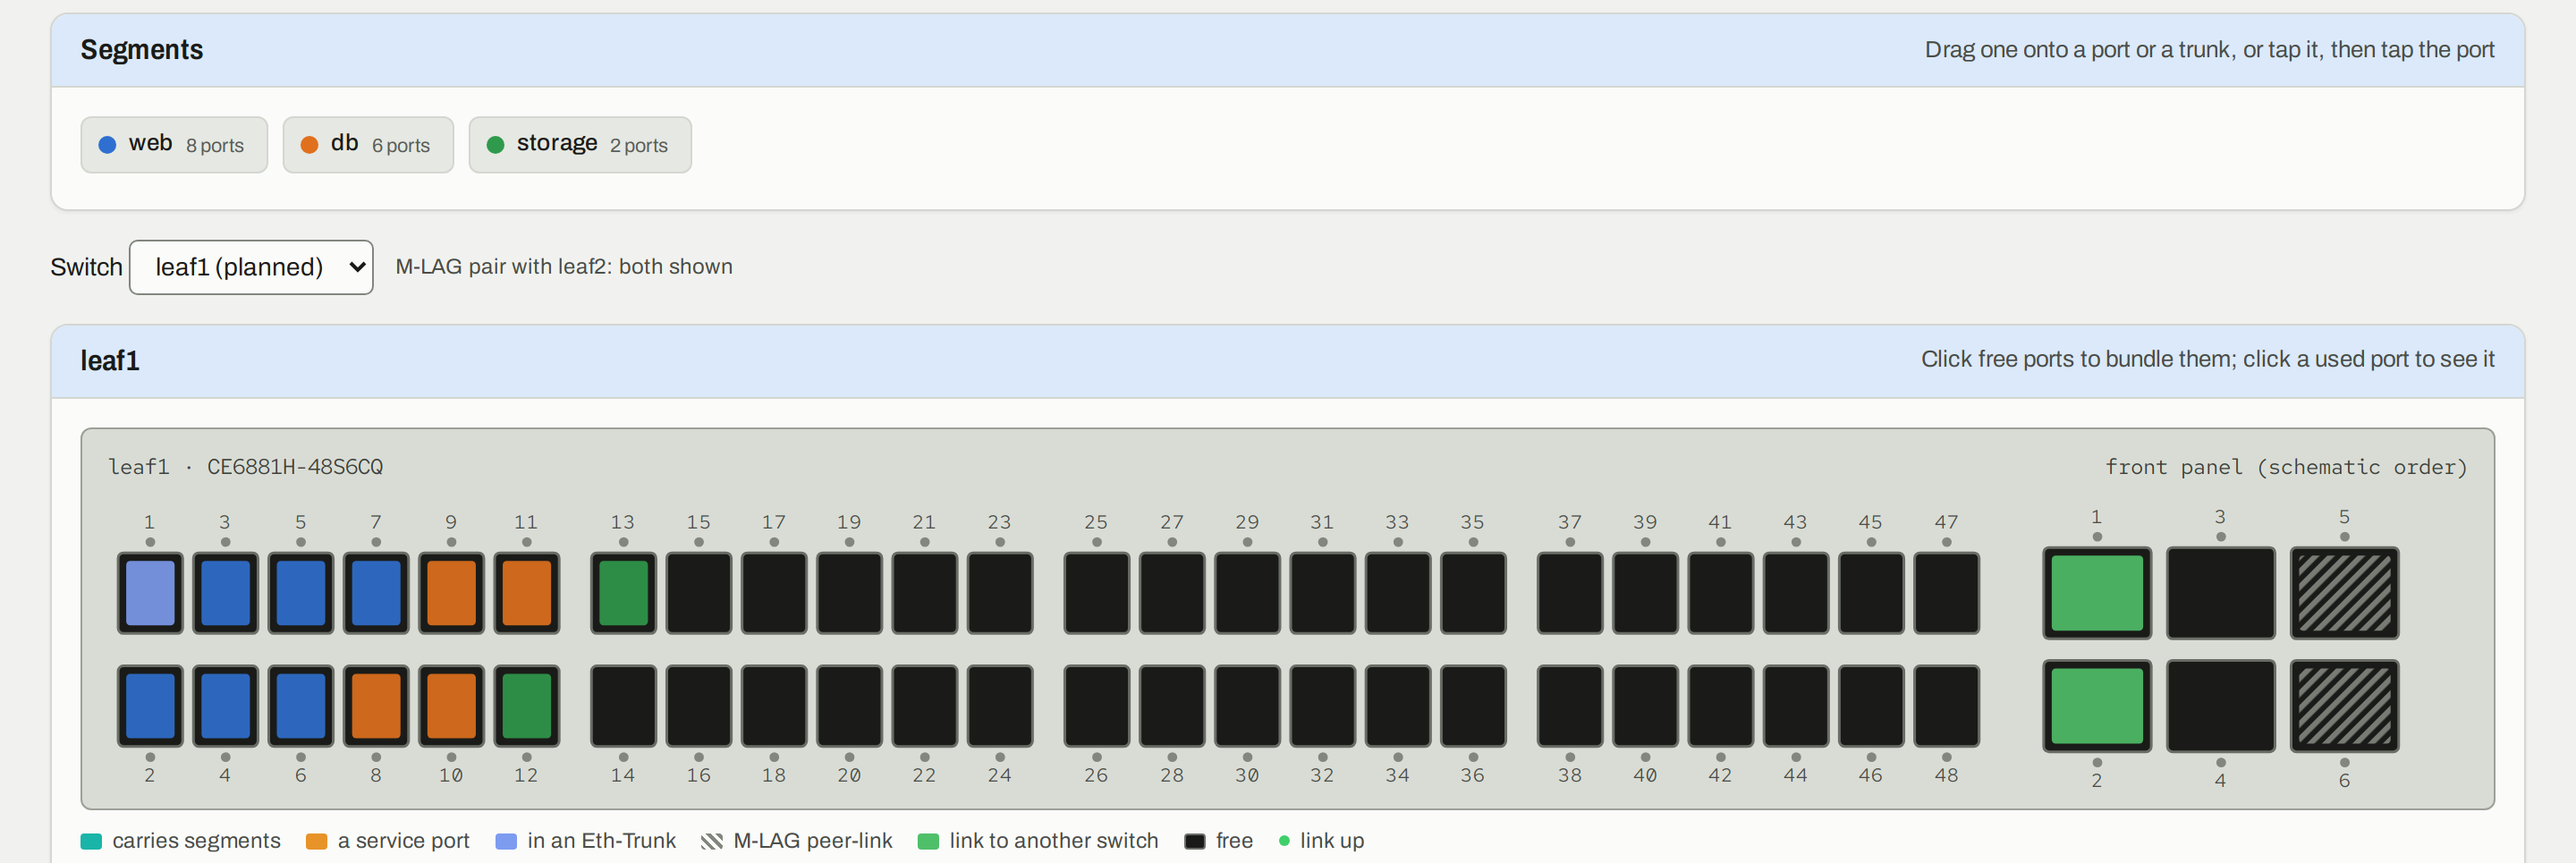
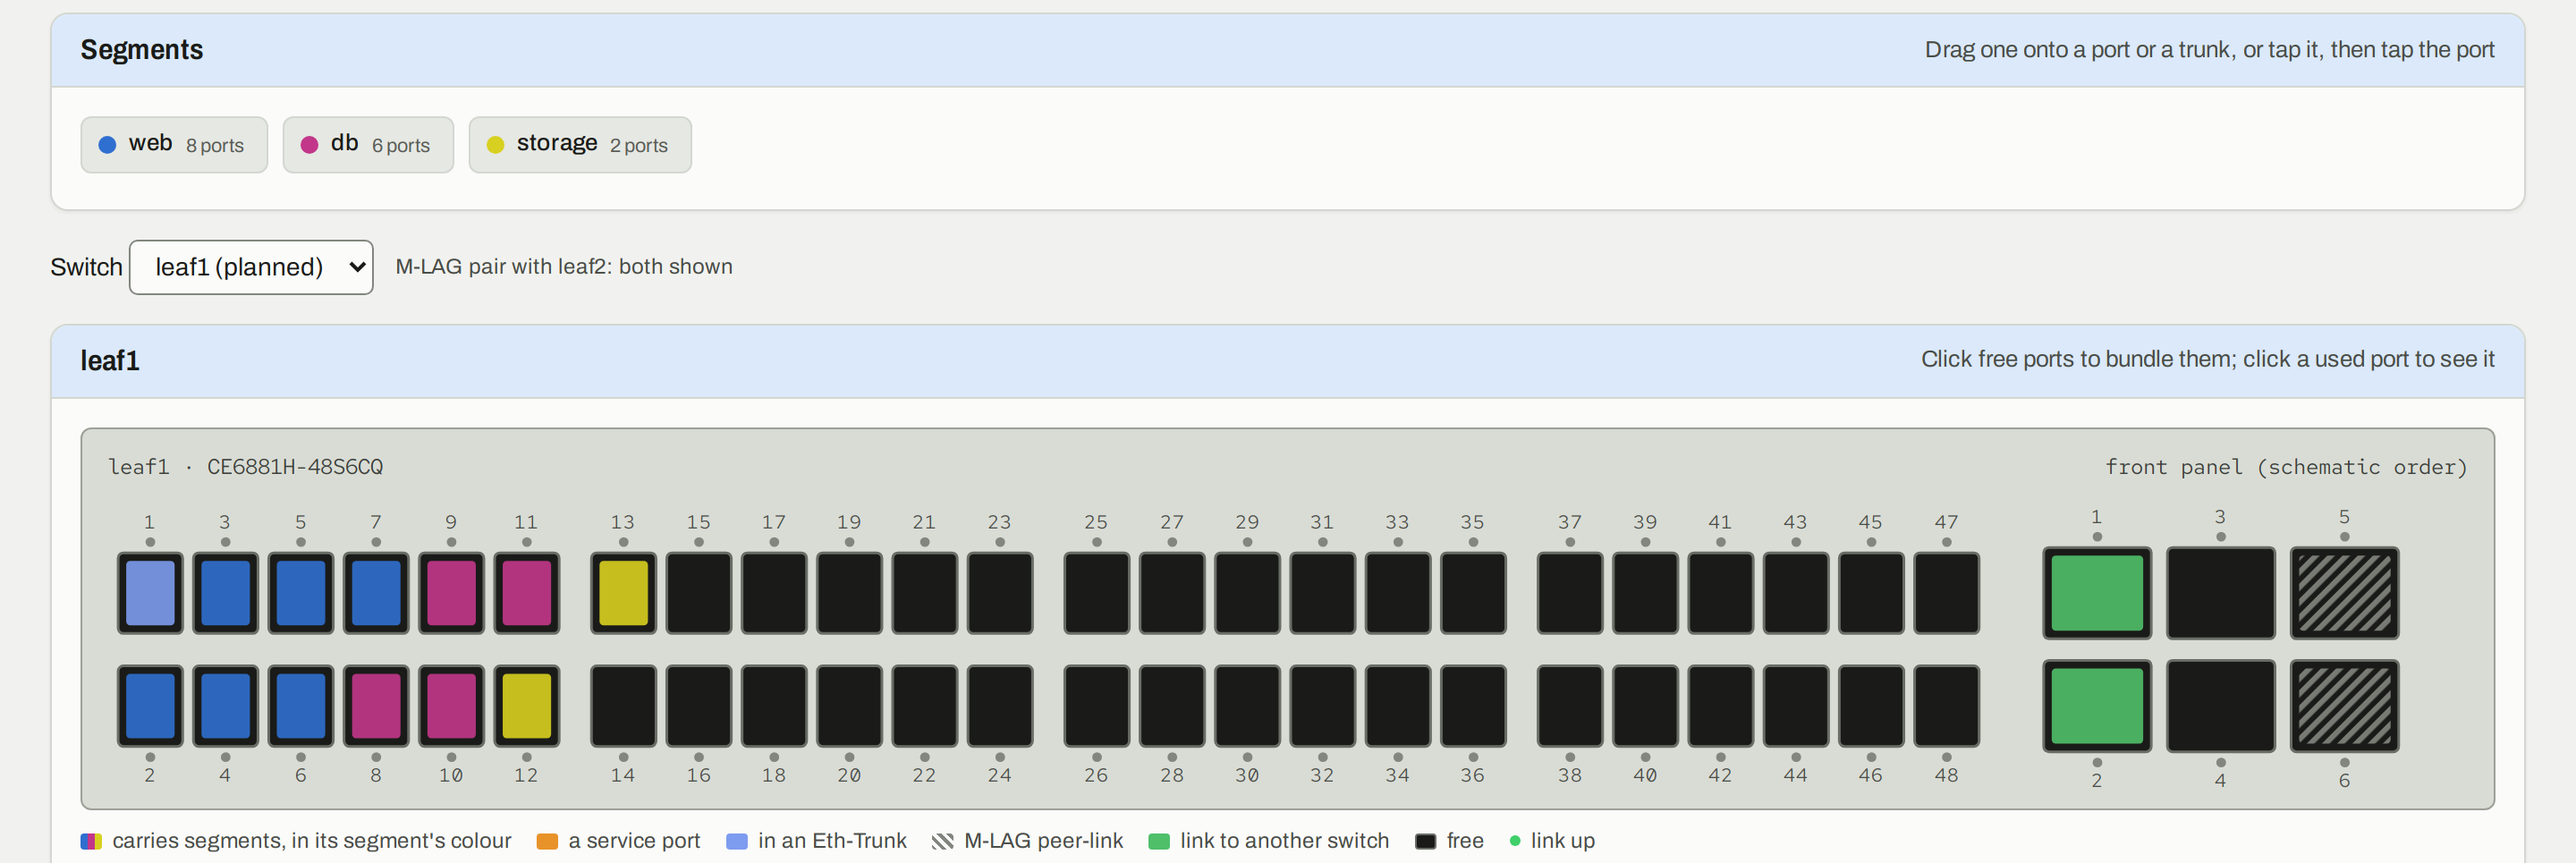
Segment colours that the front panel's legend does not use
Segments took orange and green, the legend's colours for a service port and a fabric link,
so a db port read as a service port. The legend now also says segment ports wear their
segment's colour where the panel is painted by segment.

diff --git a/gui/src/styles.css b/gui/src/styles.css
@@ -33,7 +33,7 @@
   --bad-soft: #f5dcd7;
   --warn: #924600;
   --warn-soft: #f5e4cc;
-  --s1: #2f6fd0; --s2: #e0701d; --s3: #2f9a4c; --s4: #8a5a2b; --s5: #d0352b; --s6: #7b4fc9;   /* segments: cable jacket colours */
+  --s1: #2f6fd0; --s2: #c2378a; --s3: #d8d020; --s4: #7a4bc4; --s5: #d0352b; --s6: #ff6f91;   /* segments: cable jacket colours, none of the --p-* hues the front panel's legend uses */
   --p-segment: #19b5a8;       /* the drawn front panel: what a port carries, on a black cage */
   --p-service: #e8932a;
   --p-trunk: #7d9cf0;
@@ -93,7 +93,7 @@
     --bad-soft: #3a1814;
     --warn: #f0a54a;
     --warn-soft: #33250f;
-    --s1: #5b8fe6; --s2: #ef8a3c; --s3: #4fb86a; --s4: #b07d4a; --s5: #ec6155; --s6: #9c7ae0;
+    --s1: #5b8fe6; --s2: #e0569f; --s3: #e6dc4a; --s4: #9c7ae0; --s5: #ec6155; --s6: #ff8fab;
     --chassis: #24251f;
     --chassis-edge: #4a4b43;
     --cage: #0a0a09;
@@ -136,7 +136,7 @@
   --bad-soft: #3a1814;
   --warn: #f0a54a;
   --warn-soft: #33250f;
-  --s1: #5b8fe6; --s2: #ef8a3c; --s3: #4fb86a; --s4: #b07d4a; --s5: #ec6155; --s6: #9c7ae0;
+  --s1: #5b8fe6; --s2: #e0569f; --s3: #e6dc4a; --s4: #9c7ae0; --s5: #ec6155; --s6: #ff8fab;
   --chassis: #24251f;
   --chassis-edge: #4a4b43;
   --cage: #0a0a09;
@@ -847,7 +847,7 @@ dl.settings dd { margin: 0; }
 .fp-legend { display: flex; flex-wrap: wrap; gap: 4px 14px; font-size: 12px; color: var(--muted); }
 .fp-legend span { display: inline-flex; align-items: center; gap: 6px; }
 .fp-legend i { width: 12px; height: 9px; border-radius: 2px; display: inline-block; }
-.fp-legend .k-segment { background: var(--p-segment); } .fp-legend .k-service { background: var(--p-service); }
+.fp-legend .k-segment { background: var(--p-segment); } .fp-legend .k-segment.painted { background: linear-gradient(90deg, var(--s1) 0 34%, var(--s2) 34% 67%, var(--s3) 67%); } .fp-legend .k-service { background: var(--p-service); }
 .fp-legend .k-trunk { background: var(--p-trunk); } .fp-legend .k-fabric { background: var(--p-fabric); }
 .fp-legend .k-peer { background: repeating-linear-gradient(45deg, var(--unused) 0 2px, transparent 2px 4px); }
 .fp-legend .k-free { background: var(--cage); border: 1px solid var(--cage-edge); }

diff --git a/gui/src/Faceplate.tsx b/gui/src/Faceplate.tsx
@@ -91,7 +91,8 @@ export function Faceplate({ device, pick, refresh = 0, optics, drop, paint, zone
       </div>
       {legend && <div className="fp-legend">
         {(["segment", "service", "trunk", "peer", "fabric", "free"] as PortKind[]).map((k) => (
-          <span key={k}><i className={`k-${k}`} />{KIND_LABEL[k]}</span>
+          // Painted by segment (the Ports page): its swatch shows segment colours, not the plain one.
+          <span key={k}><i className={`k-${k}${paint && k === "segment" ? " painted" : ""}`} />{KIND_LABEL[k]}{paint && k === "segment" ? ", in its segment's colour" : ""}</span>
         ))}
         <span><i className="led-key" />link up</span>
       </div>}
